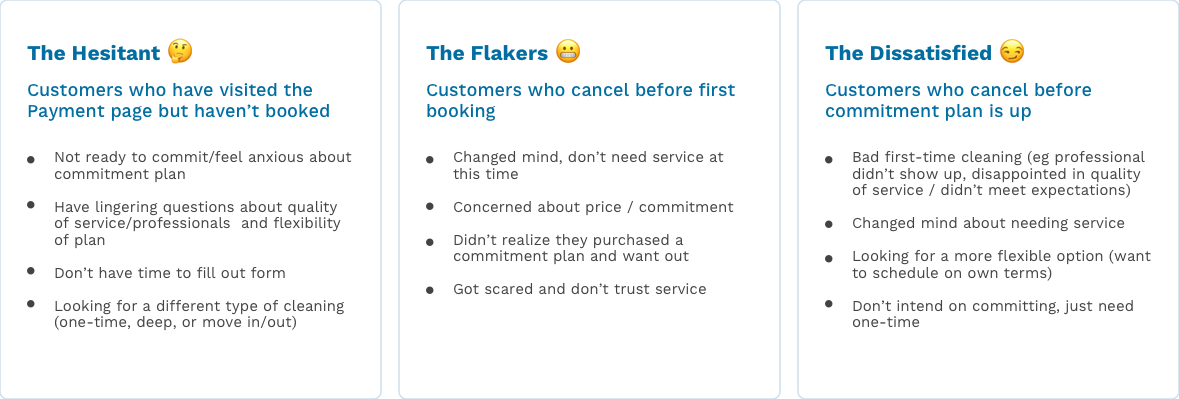
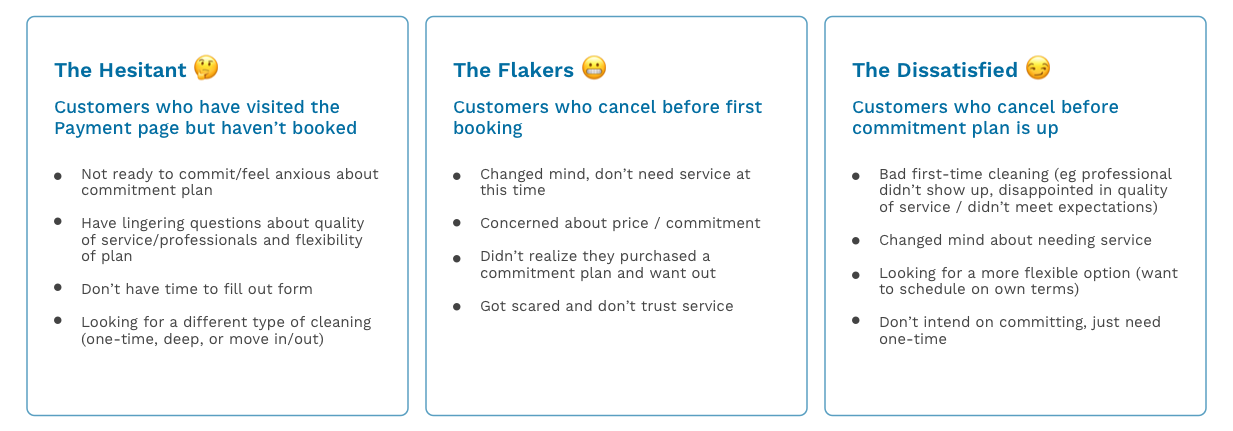
changes to handy case study

diff --git a/handy.html b/handy.html
@@ -120,8 +120,8 @@
         <div class="content-container">
             <div class="section-title">My role</div>
             <div class="body">
-              <p>As a product designer on the growth team, I worked closely with product managers, engineers, and marketers to define what we were going to test, what metrics we wanted to move, and then analyze the results to decide how best to move forward.</p>
-              <p>My job was to figure out what those tests would look like, whether as simple as a few copy changes to as meaty as a new user flow. I was also responsible for user research – customer calls, surveys, and competitor analyses– and regularly presented key insights to my team. My research both informed potential solutions to test and helped us contextualize results.</p>
+              <p>As a product designer on the growth team, I worked closely with product managers, engineers, and marketers to define what we were going to test, what metrics we wanted to improve, and then analyze the results to decide how best to move forward.</p>
+              <p>My job was to figure out what those tests would look like, whether as simple as a few copy changes to as "meaty" as a new user flow. I was also responsible for user research – customer calls, surveys, and competitor analyses– and regularly presented key insights to my team. My research both informed potential solutions to test and helped us contextualize results.</p>
             </div>
             <div class="section-title-above">The Ask</div>
             <div class="section-title">Design Challenge</div>
@@ -139,16 +139,26 @@
               <div class="body">
                 <p>Customers land on Handy.com from a lot of different places–  from googling “where can I find a nearby cleaning service” to clicking on catchy Facebook ads.</p>
 
-                <div class="image-data">
+                <!--<div class="image-data">
                   <img src="./images/google-handy.png" width=80%>
                 </div>
                 <div class="image-data">
                   <img src="./images/fb-handy.png" width=80%>
                 </div>
-              </div>
-                <div class="body">
+              </div>-->
+
                   <p>Once the customer lands on Handy’s cleaning service landing page (we call the “When” page), the customer is asked to fill in basic job details and email address to get a price. Next, the customer is brought to the “Payment” page–or checkout page–where the price of the service is revealed. Here users are asked to choose a cleaning plan, specify if they want add-ons (eg cleaning inside fridge), put in payment details and confirm their booking–voila!
                   </p>
+                </div>
+          </div>
+
+                  <div class="image-container">
+                    <img src="./images/Customer-Journey-Handy(1).png" width=80%>
+                  </div>
+                  <div class="image-mobile">
+                    <img src="./images/Customer-Journey-Handy(1).png" width=100%>
+                  </div>
+                    </div>
                 <!--  <div class="slideshow-container">
 
                     <!- Full-width images with number and caption text
@@ -176,36 +186,34 @@
                   </div>-->
 
 
-
-                  <div class="image-data">
+                <!--  <div class="image-data">
                     <img src="./images/cleaning-user-flow.png" width=100%>
-                  </div>
-                </div>
-
+                  </div>->-->
+  <div class="content-container">
                 <div class="title-med">The customer mindset</div>
                 <div class="body">
                   <p>Knowing how customers go from shopping around to actually booking is the first step. The second is understanding the customer mindset, the emotions they experience which ultimately influence their decision making and purchase behavior.</p>
-                  <p>After countless customer calls, emails and surveys with customers from various stages of the funnel (pre to post booking) I was able to segment customers into three categories:</p>
+                  <p>After countless customer calls, emails, and surveys with customers from various stages of the funnel (pre to post booking), I was able to segment customers into three categories:</p>
               </div>
             </div>
 
                 <div class="image-container">
-                    <img src="./images/customer-seg.png" width=70%>
+                    <img src="./images/customer-seg.png" width=80%>
                 </div>
             <div class="content-container">
                 <div class="image-mobile">
-                    <img src="./images/customer-seg-mweb1.png" width=100%>
+                    <img src="./images/Hesitant.png" width=100%>
                 </div>
                   <div class="image-mobile">
-                    <img src="./images/customer-seg-mweb2.png" width=100%>
+                    <img src="./images/Flakers.png" width=100%>
                   </div>
                     <div class="image-mobile">
-                    <img src="./images/customer-seg-mweb3.png" width=100%>
+                    <img src="./images/Dissatisfied.png" width=100%>
                 </div>
             </div>
           </br>
         </br>
-
+  </div>
 
 <section class="container-fill">
     <div class="content-container">

diff --git a/css/youhue.css b/css/youhue.css
@@ -863,13 +863,6 @@
 
 
 
-
-
-
-
-
-
-
         .image-container {
           display: flex;
           justify-content: center;
@@ -893,10 +886,24 @@
         margin-bottom: 8px;
      }
 
-        @media screen and (min-width: 660px) {
-            .image-mobile  {
-            display: none;
-          }
+     @media screen and (min-width: 660px) {
+         .image-mobile  {
+         display: none;
+       }
+
+     .image-mobile1 {
+       max-width: 100%;
+        margin: 0 auto;
+        border: 2px solid #AAD3E4;
+        border-radius: 5px;
+        margin-bottom: 8px;
+     }
+     @media screen and (min-width: 660px) {
+         .image-mobile1  {
+         display: none;
+       }
+
+
 
 
 .image-description {
